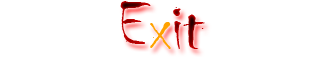
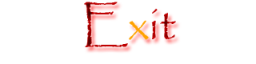
nuove immagini menu

Changed region(s): [[0.3125, 0.0, 0.7188, 0.8125]]

diff --git a/src/game/common/ImagesContainer.java b/src/game/common/ImagesContainer.java
@@ -107,7 +107,7 @@ public class ImagesContainer {
 		// scale all image respect screen size
 		for(int i=0; i<menuImagesFolders.size(); i++){
 			Image img = Toolkit.getDefaultToolkit().getImage( menuImagesFolders.get(i) );
-			img = img.getScaledInstance(screenSize.width/3, screenSize.height/10, Image.SCALE_SMOOTH);
+			img = img.getScaledInstance(screenSize.width/4, screenSize.height/11, Image.SCALE_SMOOTH);
 			menuImagesContainer.add(img);
 		}
 	}
@@ -127,7 +127,7 @@ public class ImagesContainer {
 		// Scale every image respect screen size
 		for(int i=0; i<inGameMenuImagesFolder.size(); i++){
 			Image img = Toolkit.getDefaultToolkit().getImage( inGameMenuImagesFolder.get(i) );
-			img = img.getScaledInstance(screenSize.width/3, screenSize.height/10, Image.SCALE_SMOOTH);
+			img = img.getScaledInstance(screenSize.width/4, screenSize.height/11, Image.SCALE_SMOOTH);
 			inGameMenuImagesContainer_no_fullscreen.add( img );
 		}
 	}
@@ -151,8 +151,8 @@ public class ImagesContainer {
 		// Scale every image respect screen size
 		for(int i=0; i<inGameMenuImagesFolder.size(); i++){
 			Image img = Toolkit.getDefaultToolkit().getImage( inGameMenuImagesFolder.get(i) );
-			img = img.getScaledInstance(screenSizeFullscreen.width/3, 
-					screenSizeFullscreen.height/10, Image.SCALE_FAST);
+			img = img.getScaledInstance(screenSizeFullscreen.width/4, 
+					screenSizeFullscreen.height/11, Image.SCALE_FAST);
 			inGameMenuImagesContainer_with_fullscreen.add( img );
 		}
 	}
